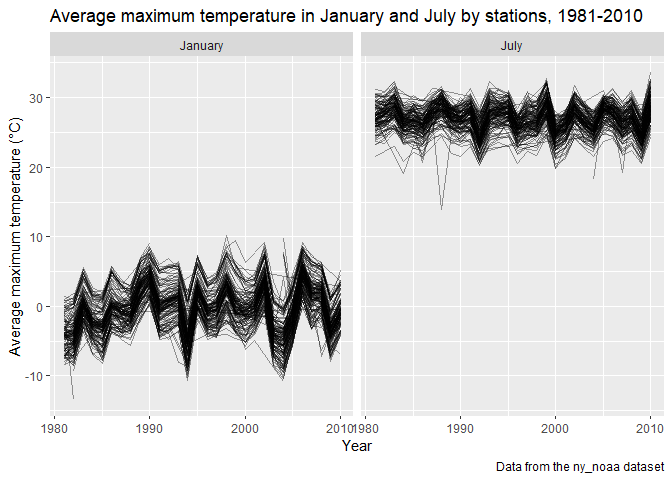
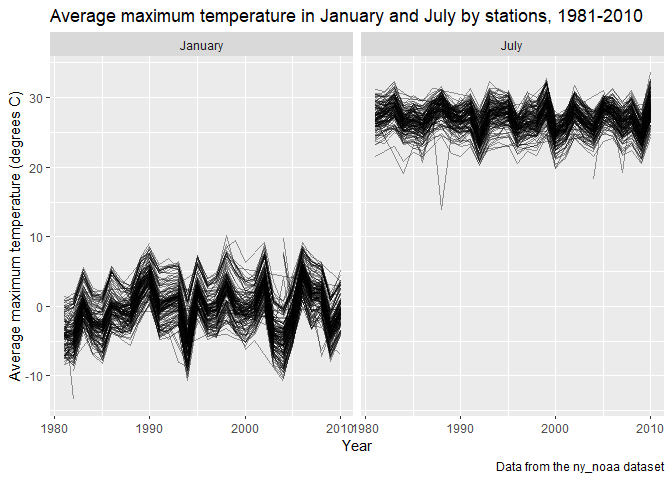
Problem 1: create temperature plot & snowfall distribution plot; combine them into a two-panel plot and add comments

Changed region(s): [[0.0, 0.1875, 0.0312, 0.8125]]

diff --git a/p8105_hw3_xc2859.md b/p8105_hw3_xc2859.md
@@ -21,6 +21,8 @@ library(tidyverse)
 ``` r
 library(patchwork)
 library(p8105.datasets)
+library(hexbin)
+library(ggridges)
 ```
 
 # Problem 1
@@ -138,7 +140,7 @@ noaa_cleaned_df |>
   labs(
     title = "Average maximum temperature in January and July by stations, 1981-2010", 
     x = "Year", 
-    y = "Average maximum temperature (°C)", 
+    y = "Average maximum temperature (degrees C)", 
     caption = "Data from the ny_noaa dataset"
   )
 ```
@@ -158,13 +160,77 @@ noaa_cleaned_df |>
 
 ![](p8105_hw3_xc2859_files/figure-gfm/unnamed-chunk-3-1.png)<!-- -->
 
-Observable / interpretable structure: Based on the plots, there is a
-seasonal difference in average maximum temperatures, which is that
-temperatures in July are much higher than in January. Temperatures in
-January ranging from -10 to 10 degrees C also have greater fluctuation
-of average maximum temperatures than temperatures in July ranging from
-20-35 degrees C. Most weather stations capture similar annual patterns,
-but there are a few outliers. For example, the lowest average maximum
-temperature in July was around 14 degrees C in the late 1980s; the
-lowest average maximum temperature in January was around -13 degrees C
-in the early 1980s.
+Observable / interpretable structure:
+
+Based on the plots, there is a seasonal difference in average maximum
+temperatures, which is that temperatures in July are much higher than in
+January. Temperatures in January ranging from -10 to 10 degrees C also
+have greater fluctuation of average maximum temperatures than
+temperatures in July ranging from 20-35 degrees C. Most weather stations
+capture similar annual patterns, but there are a few outliers. For
+example, the lowest average maximum temperature in July was around 14
+degrees C in the late 1980s; the lowest average maximum temperature in
+January was around -13 degrees C in the early 1980s.
+
+``` r
+# Create temperature plot for tmax vs tmin
+temperature_plot = 
+  noaa_cleaned_df |>
+  filter(
+    !is.na(tmax), 
+    !is.na(tmin)
+  ) |> 
+  ggplot(aes(x = tmin, y = tmax)) + 
+  geom_hex() + 
+  labs(
+    title = "Temperature plot",
+    x = "Minimum daily temperature (degrees C)", 
+    y = "Maximum daily temperature (degrees C)"
+  )
+
+# Create snowfall distribution plot by year
+snowfall_plot = 
+  noaa_cleaned_df |> 
+  filter(
+    snow > 0, 
+    snow < 100
+  ) |> 
+  mutate(year = factor(year)) |> 
+  ggplot(aes(x = snow, y = year)) + 
+  geom_density_ridges(
+    scale = 1, 
+    alpha = 0.7, 
+    fill = "skyblue", 
+    color = "white"
+  ) + 
+  labs(
+    title = "Snowfall distribution by year",
+    x = "Snowfall (mm)",
+    y = "Year",
+    caption = "Data from the ny_noaa dataset"
+  )
+
+# Combine the two plots into a two-panel plot
+temperature_plot + snowfall_plot
+```
+
+    ## Picking joint bandwidth of 3.76
+
+![](p8105_hw3_xc2859_files/figure-gfm/unnamed-chunk-4-1.png)<!-- -->
+
+Comments on plots:
+
+1)  Temperature plot: There is an obvious positive relationship between
+    daily minimum and maximum temperatures. Days with higher minimum
+    daily temperatures also tend to have higher maximum temperatures.
+    Some observations fall outside the main patterns. Some combinations
+    even show a minimum temperature higher than the maximum, which may
+    indicate errors in the records.
+
+2)  Distribution of snowfall by year plot: The distributions of snowfall
+    are quite similar across years and do not show major changes in the
+    long term. Most snowfall values are concentrated below 40 mm, and
+    peaks occur repeatedly around approximately 13, 25, 51, and 76 mm
+    across many years. This is consistent with the observation of common
+    values in the previous question, which indicates that the snowfall
+    values may be converted from inches to millimeters.
